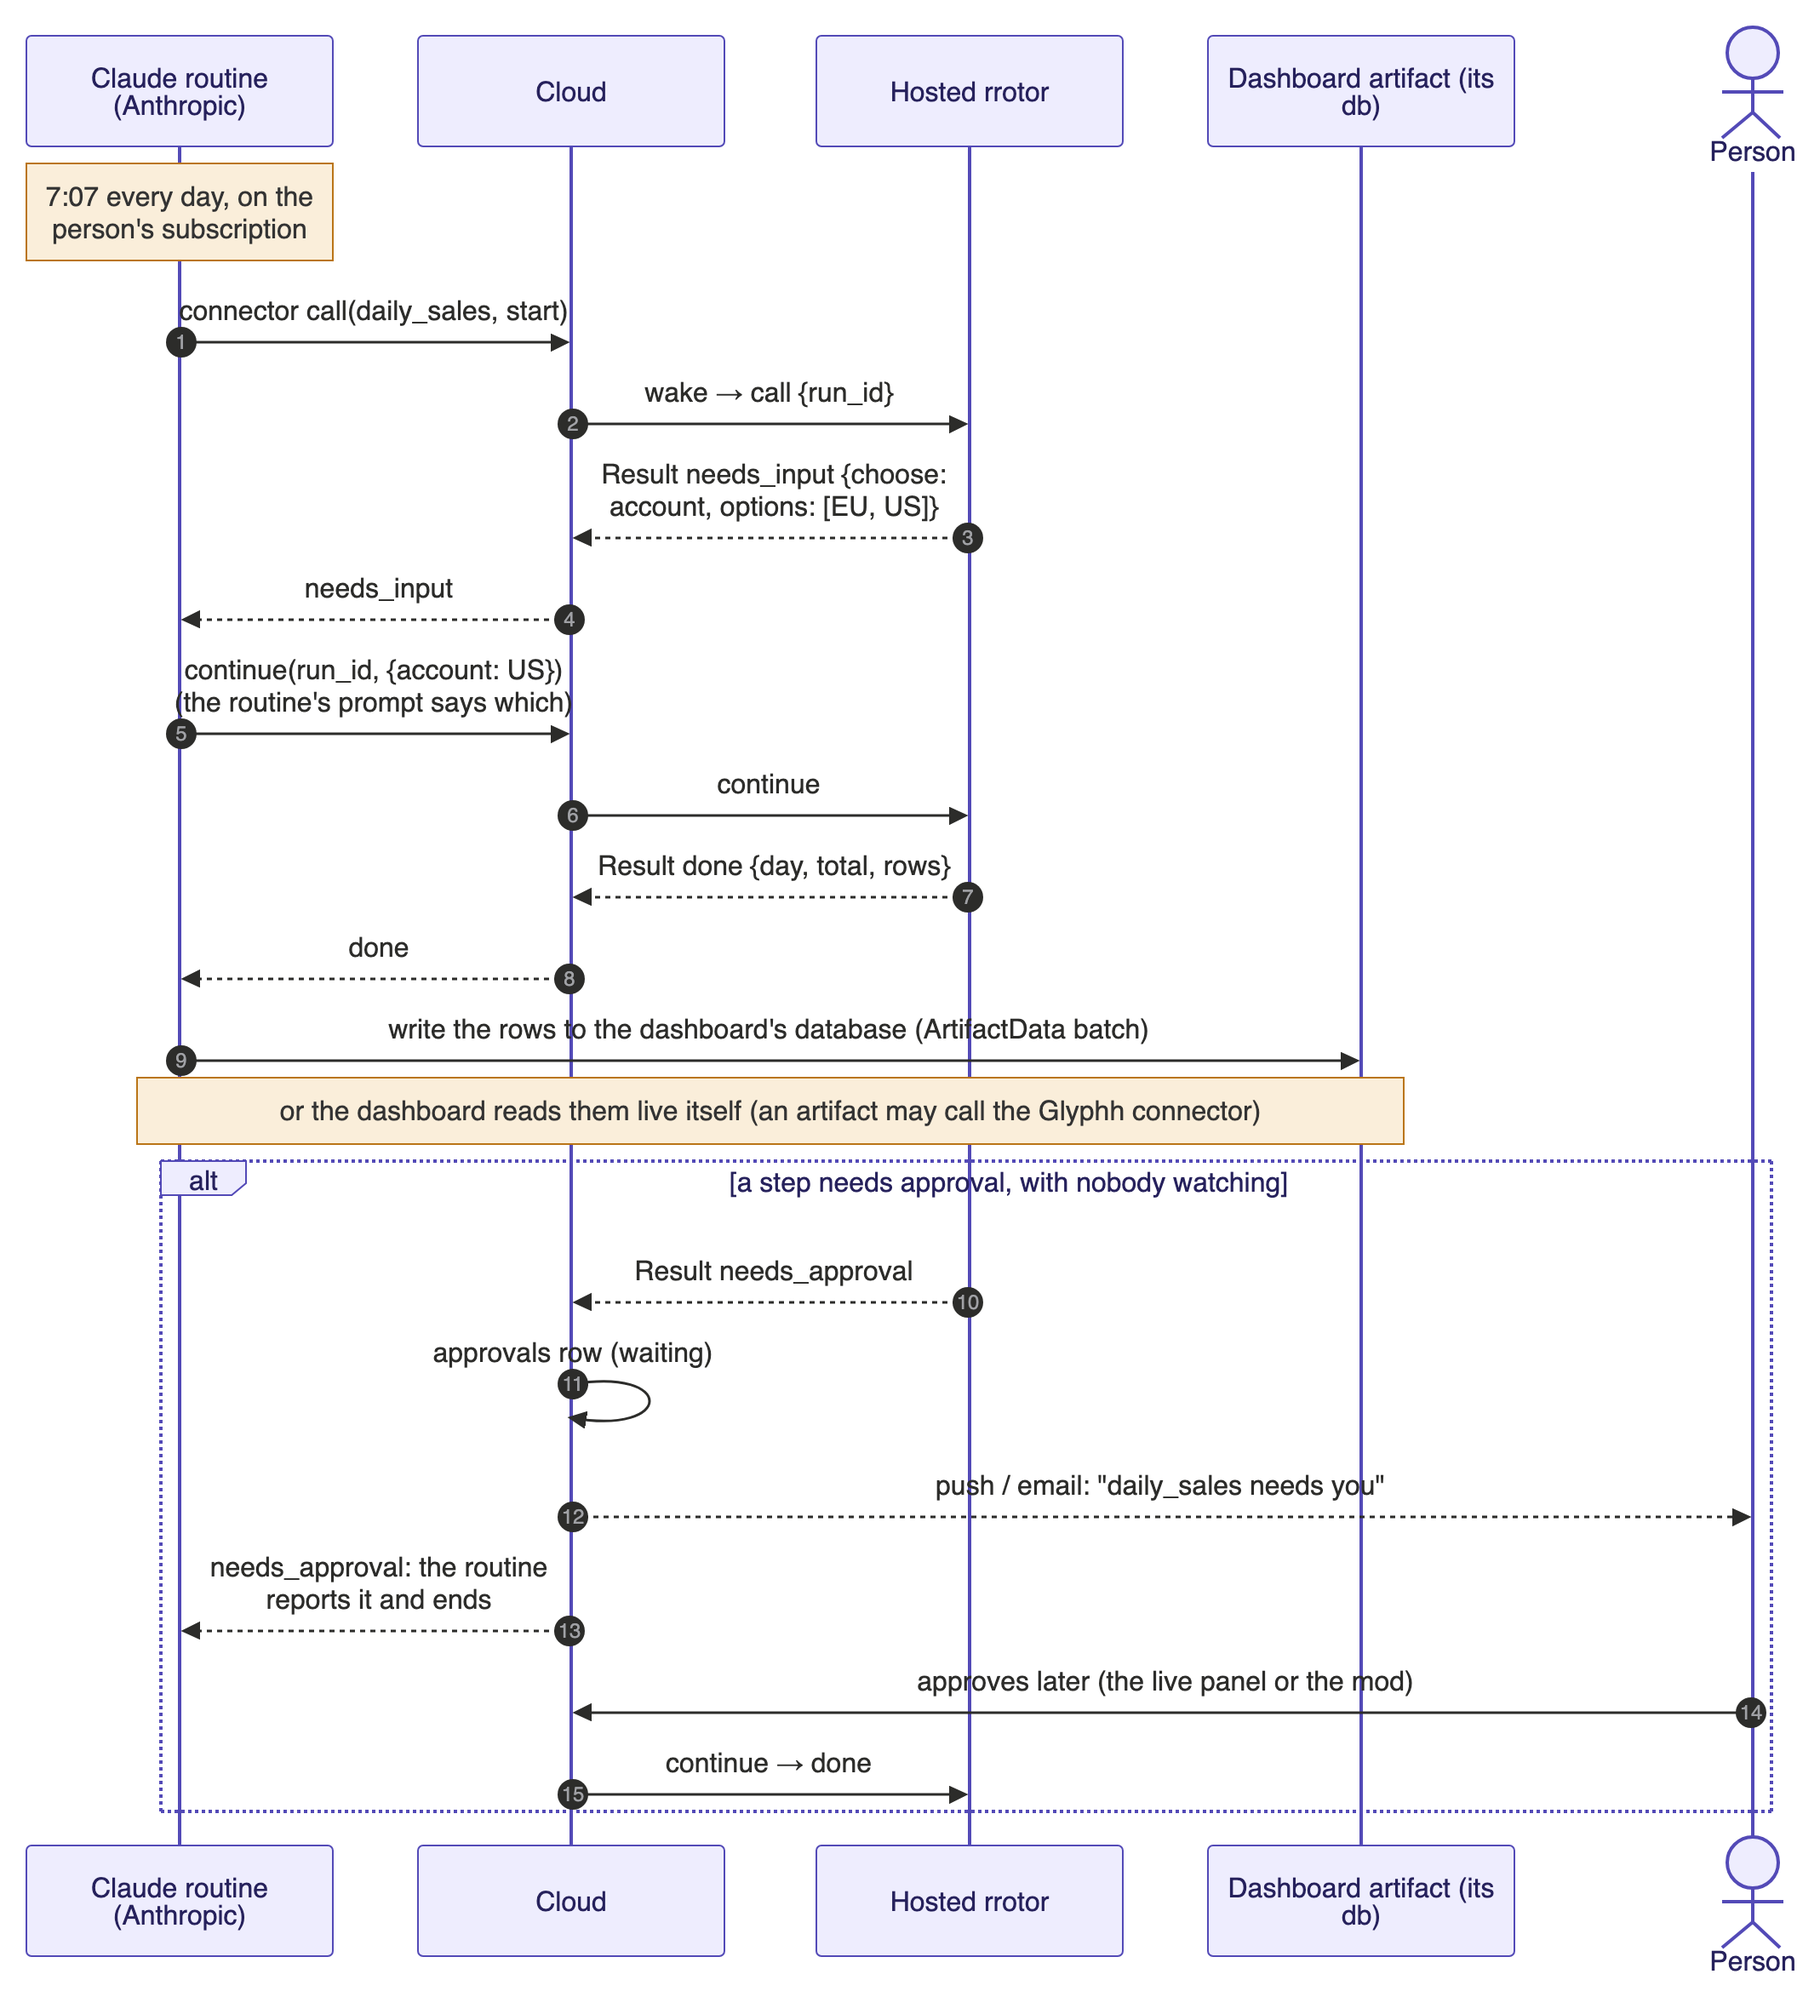
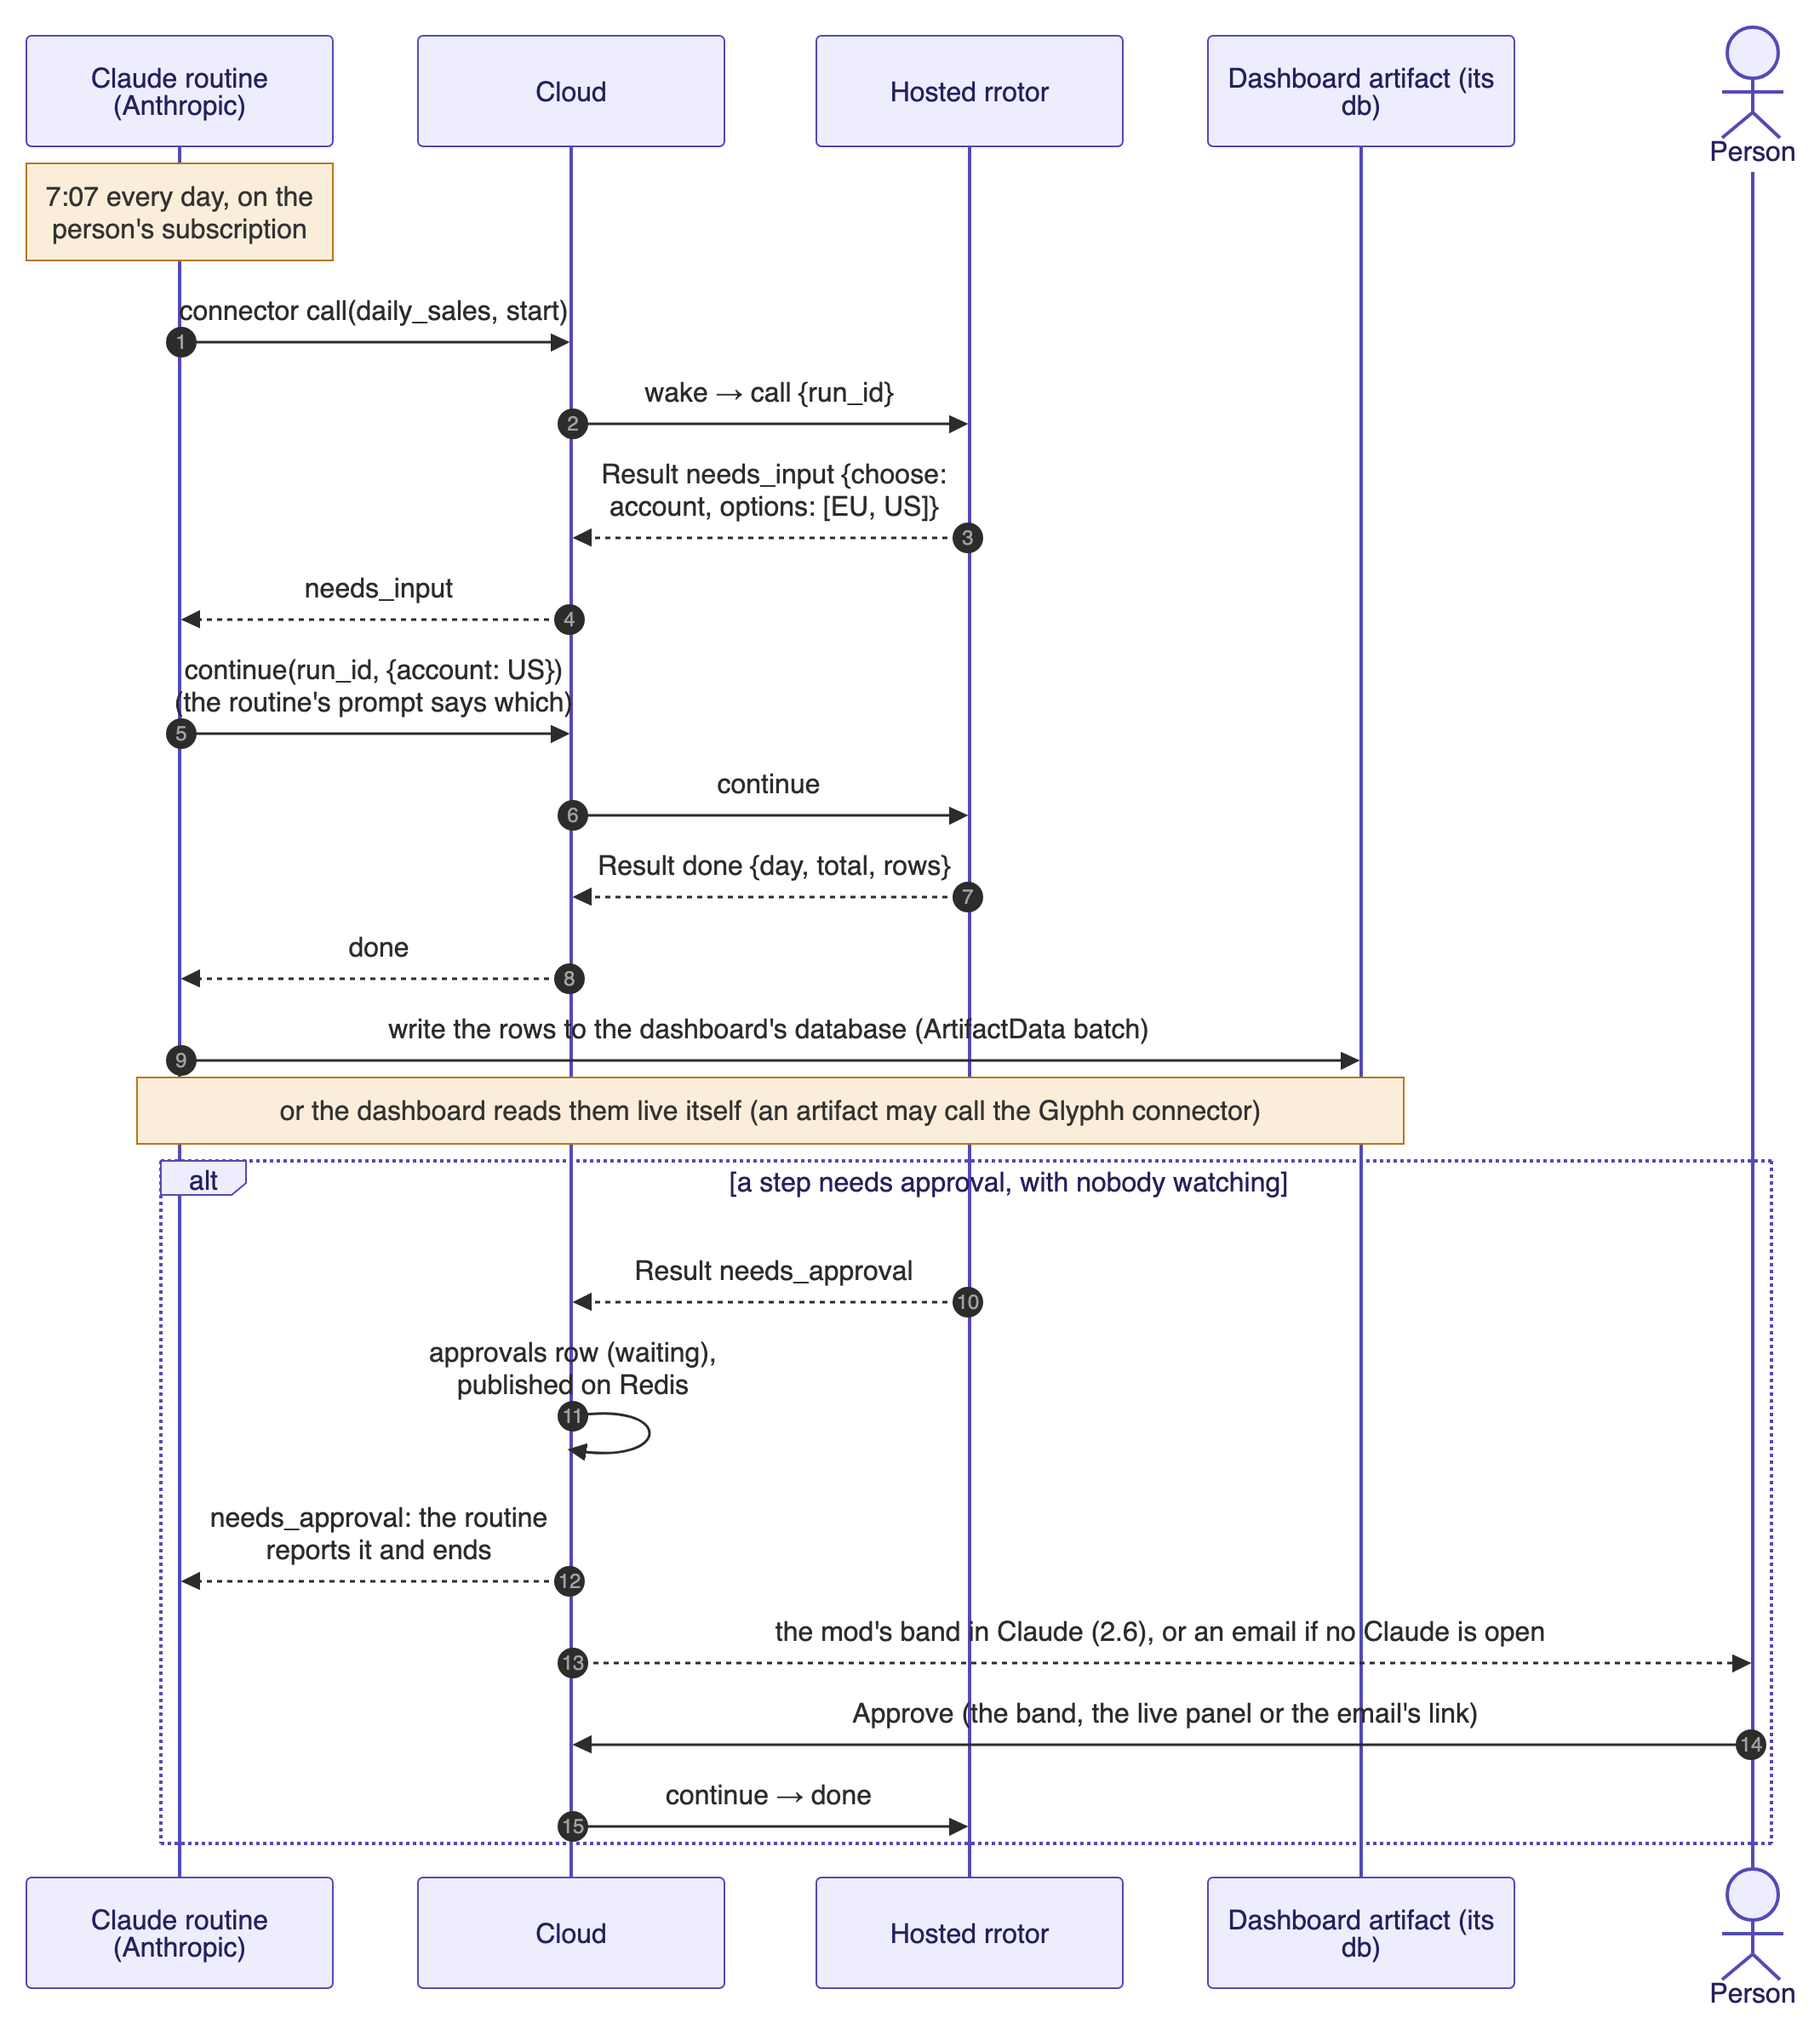
Architecture: approvals shown in Claude (Postgres row, Redis pub/sub on the server's Fly machine, the mod's band), email when no Claude is open

diff --git a/docs/architecture.md b/docs/architecture.md
@@ -335,17 +335,52 @@ sequenceDiagram
     Note over A,D: or the dashboard reads them live itself (an artifact may call the Glyphh connector)
     alt a step needs approval, with nobody watching
         H-->>G: Result needs_approval
-        G->>G: approvals row (waiting)
-        G-->>P: push / email: "daily_sales needs you"
+        G->>G: approvals row (waiting), published on Redis
         G-->>A: needs_approval: the routine reports it and ends
-        P->>G: approves later (the live panel or the mod)
+        G-->>P: the mod's band in Claude (2.6), or an email if no Claude is open
+        P->>G: Approve (the band, the live panel or the email's link)
         G->>H: continue → done
     end
 ```
 
 **State:** designed. To prove: a scheduled routine writing to an artifact's database unattended, and an artifact calling a custom connector.
 
-### 2.6 The Cloud starting a routine (calls back to Claude)
+### 2.6 Approvals, shown in Claude
+
+A step that needs approval is a row in `approvals` (the record, kept until answered) and a signal on Redis (pub/sub, to whichever server process holds the person's connection). Redis runs on the server's own Fly machine, beside the server (Chris, 2026-10-14); in development it is a service in the server's `compose.yaml`. The `glyphh` mod holds one live connection while Claude is open and shows the approval itself, with no Claude turn.
+
+![Approvals](img/seq-approvals.png)
+
+```mermaid
+sequenceDiagram
+    autonumber
+    actor P as Person
+    participant M as Mod (glyphh), in Claude
+    participant G as Cloud
+    participant Q as Redis
+    participant H as rrotor
+    M->>G: GET /v1/approvals/stream (server-sent events, the install's token), and GET /v1/approvals to catch up
+    H-->>G: Result needs_approval {run_id, step, detail}
+    G->>G: approvals row (waiting)
+    G->>Q: publish approval {user, id}
+    Q-->>G: the process holding this person's stream
+    G-->>M: event approval {id, program, step, detail}
+    M-->>P: a band above the prompt with Approve and Decline, a toast, a native notification if Claude is not in front
+    P->>M: Approve
+    M->>G: POST /v1/approvals/{id} {approve}
+    G->>G: answered (first answer wins)
+    G->>H: continue {run_id, approved}
+    G->>Q: publish answered {id}
+    Q-->>G: every process
+    G-->>M: event answered {id}: the band clears in every open Claude
+    alt no Claude open
+        G-->>P: email with the step and an Approve link (notified_at)
+    end
+```
+
+**State:** designed.
+
+### 2.7 The Cloud starting a routine (calls back to Claude)
 
 When something happens on Glyphh's side (a program finished, a page it watches changed, a waiting step was approved), the Cloud can start a routine through the routine's API trigger, with the data as its text.
 
@@ -399,6 +434,8 @@ Content-Type: application/json
 | Cloud → routine | HTTPS POST to `api.anthropic.com/v1/claude_code/routines/<id>/fire` | the routine's trigger token |
 | Mod → local rrotor | MCP on `127.0.0.1` | a local token (proposed) |
 | Stripe → Cloud | webhook | Stripe's signature |
+| Mod ← Cloud | server-sent events, `/v1/approvals/stream` | the install's token |
+| Cloud ↔ Redis | pub/sub, inside the cloud | the cloud's network |
 
 ## 4. rrotor, inside
 
